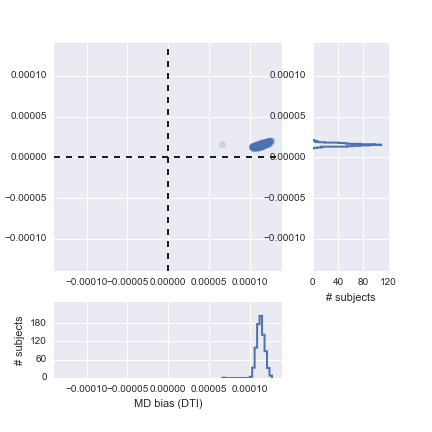
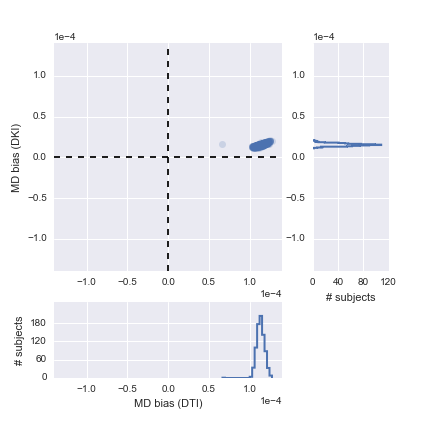
Fix figure tick labels in MD variability. Slight rewordings.

diff --git a/poster.tex b/poster.tex
@@ -84,7 +84,7 @@
 
 Diffusion MRI (dMRI) measurements provide detailed information about human brain
 connectivity and microstructure \emph{in vivo}. HCP is measuring high-quality
-multi-modal MRI data from 1,200 individuals and make these data publcly
+multi-modal MRI data from 1,200 individuals and making these data publcly
 available \cite{VanEssen2012}. It has already made measurements from
 approximately 900 subjects available through Amazon's Simple Storage Service
 (S3).
@@ -218,8 +218,8 @@ $s/mm^2$  \hfill \break
 statistics based on a difference in FA/MD between b=1000 and b=1000,2000 (DTI)
 or between b=1000,2000, b=1000,3000 (DKI).
 
-\noindent BIAS is the median difference between sub-samples VARIABILITY is
-the spread of differences (central 95\% of the distribution)
+\noindent BIAS is the median difference between sub-samples VARIABILITY is the
+range of the differences (the range of the central 95\% of the distribution).
 
 \subsubsection*{Mean diffusivity}
 
@@ -263,7 +263,7 @@ the spread of differences (central 95\% of the distribution)
 \vspace{-10mm}
 \subsection*{Data}
 Measurements were obtained from the WU-Minn Human Connectome Project consortium
-(\texttt{https://www.humanconnectome.org/}) through AWS S3
+(\texttt{https://www.humanconnectome.org/}) through AWS S3.
 
 \noindent Of the 900 subjects that are available, 788 subjects have full
 diffusion measurements: 270 diffusion weighted directions in 3 different
@@ -271,9 +271,8 @@ b-values (90 directions each): 1,000, 2,000 and 3,000 $s/mm^2$, collected at
 1.25 x 1.25 x 1.25 $mm^3$ resolution.
 
 \noindent \emph{Freesurfer} segmentation from a T1-weighted measurement was also
-we focused our analysis only on the parts of the volume that contained the white
-matter.
-\vspace{-10mm}
+used. We focused our analysis only on the parts of the volume that contained the
+white matter. \vspace{-10mm}
 
 
 \color{DarkSlateGray}
